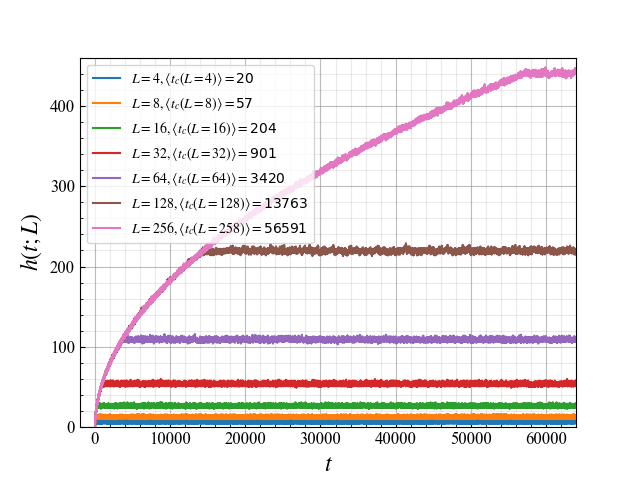
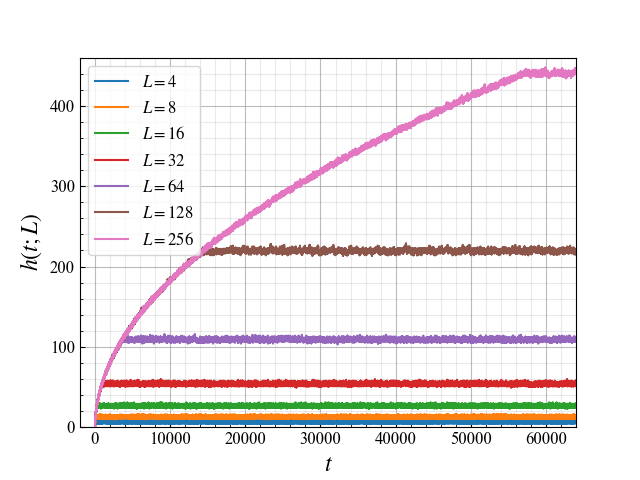
Main work on 2e and 2f, upgraded all previous plots

Changed region(s): [[0.125, 0.125, 0.5, 0.5312]]

diff --git a/main.py b/main.py
@@ -54,7 +54,6 @@ def drive_and_relax(heights, slopes, thresholds, grains=16, p=0.5):
             avalanches.append(avalanche_size)
         
         if steady_state and steady_state_time == 0:
-            # steady_state_time = g - 1
             steady_state_time = heights_sum
         
         h_1.append(heights[0])
@@ -99,6 +98,28 @@ def task_1(compute=True, plot=False):
         heights, slopes, thresholds, h_1, sst, reccur, avalanches = drive_and_relax(heights, slopes, thresholds, grains=4000, p=0.5)
         np.save(os.path.join('Numpy Files', 'First Site Height: L=32, p=0.5'), np.array([h_1, sst]))  # Save data in a .npy file
 
+        """ Average avalanche size with system size """
+        avalanche_sizes = []
+        heights, slopes, thresholds = initialise(size=4, p=0.5)
+        heights, slopes, thresholds, h_1, sst, reccur, avalanches = drive_and_relax(heights, slopes, thresholds, grains=4000, p=0.5)
+        avalanche_sizes.append(np.average(avalanches))
+        heights, slopes, thresholds = initialise(size=8, p=0.5)
+        heights, slopes, thresholds, h_1, sst, reccur, avalanches = drive_and_relax(heights, slopes, thresholds, grains=8000, p=0.5)
+        avalanche_sizes.append(np.average(avalanches))
+        heights, slopes, thresholds = initialise(size=16, p=0.5)
+        heights, slopes, thresholds, h_1, sst, reccur, avalanches = drive_and_relax(heights, slopes, thresholds, grains=16000, p=0.5)
+        avalanche_sizes.append(np.average(avalanches))
+        heights, slopes, thresholds = initialise(size=32, p=0.5)
+        heights, slopes, thresholds, h_1, sst, reccur, avalanches = drive_and_relax(heights, slopes, thresholds, grains=32000, p=0.5)
+        avalanche_sizes.append(np.average(avalanches))
+        heights, slopes, thresholds = initialise(size=64, p=0.5)
+        heights, slopes, thresholds, h_1, sst, reccur, avalanches = drive_and_relax(heights, slopes, thresholds, grains=64000, p=0.5)
+        avalanche_sizes.append(np.average(avalanches))
+        heights, slopes, thresholds = initialise(size=128, p=0.5)
+        heights, slopes, thresholds, h_1, sst, reccur, avalanches = drive_and_relax(heights, slopes, thresholds, grains=90000, p=0.5)
+        avalanche_sizes.append(np.average(avalanches))
+        np.save(os.path.join('Numpy Files', '1: avg_avalanche_size'), np.array(avalanche_sizes))  # Save data in a .npy file
+
     if plot:
         """ Plotting the heights themselves """
         heights = np.load('Pile Visualised: L=64, p=0.5.npy', allow_pickle=True)
@@ -114,14 +135,16 @@ def task_1(compute=True, plot=False):
         h_1_0_5 = np.load('Changing Probabilities: L=16, p=0.5.npy', allow_pickle=True)
         h_1_1 = np.load('Changing Probabilities: L=16, p=1.npy', allow_pickle=True)
         fig, ax = plt.subplots()
+        params = {'legend.fontsize': 12}
+        plt.rcParams.update(params)
         matplotlib.rcParams['mathtext.fontset'] = 'custom'
         matplotlib.rcParams['mathtext.rm'] = 'Bitstream Vera Sans'
         matplotlib.rcParams['mathtext.it'] = 'Bitstream Vera Sans:italic'
         matplotlib.rcParams['mathtext.bf'] = 'Bitstream Vera Sans:bold'
         matplotlib.rcParams['mathtext.fontset'] = 'stix'
-        plt.plot(h_1_0, label=r'$p=0, \langle{steady-state}\rangle=$' + str(np.average(h_1_0[300:])))
-        plt.plot(h_1_0_5, label=r'$p=0.5, \langle{steady-state}\rangle=$' + str(round(np.average(h_1_0_5[300:]), 5)))
-        plt.plot(h_1_1, label=r'$p=1, \langle{steady-state}\rangle=$' + str(np.average(h_1_1[300:])))
+        plt.plot(h_1_0, label=r'$p=0, \langle{steady-state}\rangle=$' + r'${}$'.format(str(np.average(h_1_0[300:]))))
+        plt.plot(h_1_0_5, label=r'$p=0.5, \langle{steady-state}\rangle=$' + r'${}$'.format(str(round(np.average(h_1_0_5[300:]), 5))))
+        plt.plot(h_1_1, label=r'$p=1, \langle{steady-state}\rangle=$' + r'${}$'.format(str(np.average(h_1_1[300:]))))
         plt.xlabel('$\it{t}$', fontname='Times New Roman', fontsize=17)
         plt.ylabel(r'$\it{h(t; L)}$', fontname='Times New Roman', fontsize=17)
         plt.legend()
@@ -142,13 +165,15 @@ def task_1(compute=True, plot=False):
         slopes = np.load('Slopes Bounded: L=32, p=0.5 Slopes.npy', allow_pickle=True)
         thresholds = np.load('Slopes Bounded: L=32, p=0.5 Thresholds.npy', allow_pickle=True)
         fig, ax = plt.subplots()
+        params = {'legend.fontsize': 12}
+        plt.rcParams.update(params)
         matplotlib.rcParams['mathtext.fontset'] = 'custom'
         matplotlib.rcParams['mathtext.rm'] = 'Bitstream Vera Sans'
         matplotlib.rcParams['mathtext.it'] = 'Bitstream Vera Sans:italic'
         matplotlib.rcParams['mathtext.bf'] = 'Bitstream Vera Sans:bold'
         matplotlib.rcParams['mathtext.fontset'] = 'stix'
-        plt.plot(sites, slopes, 'o', label=r'$Actual Slopes$')
-        plt.plot(sites, thresholds, 'x', label=r'$Threshold Slopes$')
+        plt.plot(sites, slopes, 'o', label=r'$Actual\: Slopes$')
+        plt.plot(sites, thresholds, 'x', label=r'$Threshold\: Slopes$')
         plt.xlabel('$\it{i}$', fontname='Times New Roman', fontsize=17)
         plt.ylabel('$\it{z_i}$', fontname='Times New Roman', fontsize=20)
         plt.xlim([0, 33])
@@ -164,17 +189,19 @@ def task_1(compute=True, plot=False):
         plt.savefig('Plots/Task1/slopes_bounded.png')
         plt.show()
 
-        """ Checking the height at the first site fir L = 16, 32 """
+        """ Checking the height at the first site for L = 16, 32 """
         h_1_16, sst_16 = np.load('First Site Height: L=16, p=0.5.npy', allow_pickle=True)
         h_1_32, sst_32 = np.load('First Site Height: L=32, p=0.5.npy', allow_pickle=True)
         fig, ax = plt.subplots()
+        params = {'legend.fontsize': 12}
+        plt.rcParams.update(params)
         matplotlib.rcParams['mathtext.fontset'] = 'custom'
         matplotlib.rcParams['mathtext.rm'] = 'Bitstream Vera Sans'
         matplotlib.rcParams['mathtext.it'] = 'Bitstream Vera Sans:italic'
         matplotlib.rcParams['mathtext.bf'] = 'Bitstream Vera Sans:bold'
         matplotlib.rcParams['mathtext.fontset'] = 'stix'
-        plt.plot(h_1_16, label=r'$L=16, \langle{steady-state}\rangle = $' + str(round(np.average(h_1_16[sst_16:]), 5)))
-        plt.plot(h_1_32, label=r'$L=32, \langle{steady-state}\rangle = $' + str(round(np.average(h_1_32[sst_32:]), 5)))
+        plt.plot(h_1_16, label=r'$L=16, \langle{steady-state}\rangle = $' + r'${}$'.format(str(round(np.average(h_1_16[sst_16:]), 5))))
+        plt.plot(h_1_32, label=r'$L=32, \langle{steady-state}\rangle = $' + r'${}$'.format(str(round(np.average(h_1_32[sst_32:]), 5))))
         plt.xlabel('$\it{t}$', fontname='Times New Roman', fontsize=17)
         plt.ylabel(r'$\it{h(t; L)}$', fontname='Times New Roman', fontsize=17)
         plt.legend()
@@ -188,6 +215,39 @@ def task_1(compute=True, plot=False):
         plt.ylim(0, 62)
         plt.xlim(-200, 4100)
         plt.savefig('Plots/Task1/heights_at_site_1.png')
+        plt.show()
+
+        """ Average avalanche size with system size """
+        avalanche_avg = np.load('1: avg_avalanche_size.npy', allow_pickle=True)
+        l = [4, 8, 16, 32, 64, 128]
+        fig, ax = plt.subplots()
+        params = {'legend.fontsize': 12}
+        plt.rcParams.update(params)
+        matplotlib.rcParams['mathtext.fontset'] = 'custom'
+        matplotlib.rcParams['mathtext.rm'] = 'Bitstream Vera Sans'
+        matplotlib.rcParams['mathtext.it'] = 'Bitstream Vera Sans:italic'
+        matplotlib.rcParams['mathtext.bf'] = 'Bitstream Vera Sans:bold'
+        matplotlib.rcParams['mathtext.fontset'] = 'stix'
+        log_l = np.log(l)
+        log_avalanches_avg = np.log(avalanche_avg)
+        fit_phase, cov_phase = np.polyfit(log_l, log_avalanches_avg, 1, cov=True)
+        p_phase = np.poly1d(fit_phase)
+        l_fit = np.linspace(min(log_l), max(log_l), 1000)
+        plt.plot(log_l, log_avalanches_avg, 'o', label=r'$\langle{s}\rangle$' + ' ' + r'$obtained$')
+        plt.plot(l_fit, p_phase(l_fit), label=r'$fit: $' + r'$gradient=$' + ' ' + r'${}$'.format(str(round(fit_phase[0], 3))))
+        plt.xlabel('$\it{log({L})}$', fontname='Times New Roman', fontsize=17)
+        plt.ylabel(r'$\it{log({\langle{s}\rangle})}$', fontname='Times New Roman', fontsize=17)
+        plt.legend()
+        plt.minorticks_on()
+        ax.tick_params(direction='in')
+        ax.tick_params(which='minor', direction='in')
+        plt.grid(b=True, which='major', color='#8e8e8e', linestyle='-', alpha=0.6)
+        plt.grid(b=True, which='minor', color='#999999', linestyle='-', alpha=0.2)
+        plt.xticks(fontsize=12, fontname='Times New Roman')
+        plt.yticks(fontsize=12, fontname='Times New Roman')
+        plt.ylim(1, 5)
+        plt.xlim(1, 5)
+        plt.savefig('Plots/Task1/avg_avalanche_scaling.png')
         plt.show()
 
 
@@ -230,18 +290,20 @@ def task_2_a(compute=True, plot=False):
         h_1_128, sst_128 = np.load('Task 2a: L=128, p=0.5.npy', allow_pickle=True)
         h_1_256, sst_256 = np.load('Task 2a: L=256, p=0.5.npy', allow_pickle=True)
         fig, ax = plt.subplots()
+        params = {'legend.fontsize': 12}
+        plt.rcParams.update(params)
         matplotlib.rcParams['mathtext.fontset'] = 'custom'
         matplotlib.rcParams['mathtext.rm'] = 'Bitstream Vera Sans'
         matplotlib.rcParams['mathtext.it'] = 'Bitstream Vera Sans:italic'
         matplotlib.rcParams['mathtext.bf'] = 'Bitstream Vera Sans:bold'
         matplotlib.rcParams['mathtext.fontset'] = 'stix'
-        plt.plot(h_1_4, label=r'$L=4, \langle{t_c(L=4)}\rangle  = $' + str(sst_4))
-        plt.plot(h_1_8, label=r'$L=8, \langle{t_c(L=8)}\rangle  = $' + str(sst_8))
-        plt.plot(h_1_16, label=r'$L=16, \langle{t_c(L=16)}\rangle  = $' + str(sst_16))
-        plt.plot(h_1_32, label=r'$L=32, \langle{t_c(L=32)}\rangle  = $' + str(sst_32))
-        plt.plot(h_1_64, label=r'$L=64, \langle{t_c(L=64)}\rangle  = $' + str(sst_64))
-        plt.plot(h_1_128, label=r'$L=128, \langle{t_c(L=128)}\rangle  = $' + str(sst_128))
-        plt.plot(h_1_256, label=r'$L=256, \langle{t_c(L=258)}\rangle  = $' + str(sst_256))
+        plt.plot(h_1_4, label=r'$L=4$')
+        plt.plot(h_1_8, label=r'$L=8$')
+        plt.plot(h_1_16, label=r'$L=16$')
+        plt.plot(h_1_32, label=r'$L=32$')
+        plt.plot(h_1_64, label=r'$L=64$')
+        plt.plot(h_1_128, label=r'$L=128$')
+        plt.plot(h_1_256, label=r'$L=256$')
         plt.xlabel('$\it{t}$', fontname='Times New Roman', fontsize=17)
         plt.ylabel(r'$\it{h(t; L)}$', fontname='Times New Roman', fontsize=17)
         plt.legend()
@@ -338,6 +400,36 @@ def task_2_b(compute=True, plot=False):
         plt.savefig('Plots/Task2/task2b.png')
         plt.show()
 
+        l_log = np.log(l)
+        avg_cross_over_times_log = np.log(avg_cross_over_times)
+        fig, ax = plt.subplots()
+        params = {'legend.fontsize': 12}
+        plt.rcParams.update(params)
+        matplotlib.rcParams['mathtext.fontset'] = 'custom'
+        matplotlib.rcParams['mathtext.rm'] = 'Bitstream Vera Sans'
+        matplotlib.rcParams['mathtext.it'] = 'Bitstream Vera Sans:italic'
+        matplotlib.rcParams['mathtext.bf'] = 'Bitstream Vera Sans:bold'
+        matplotlib.rcParams['mathtext.fontset'] = 'stix'
+        fit_phase, cov_phase = np.polyfit(l_log, avg_cross_over_times_log, 1, cov=True)
+        p_phase = np.poly1d(fit_phase)
+        l_fit = np.linspace(min(l_log), max(l_log), 1000)
+        plt.plot(l_log, avg_cross_over_times_log, 'o', label=r'$\langle{t_c}\rangle$')
+        plt.plot(l_fit, p_phase(l_fit), label=r'$fit: $' + r'$gradient=$' + ' ' + r'${}$'.format(str(round(fit_phase[0], 2))))
+        plt.xlabel(r'$\it{log({L})}$', fontname='Times New Roman', fontsize=17)
+        plt.ylabel(r'$log({\langle{t_c}\rangle})$', fontname='Times New Roman', fontsize=18)
+        plt.legend()
+        plt.minorticks_on()
+        ax.tick_params(direction='in')
+        ax.tick_params(which='minor', direction='in')
+        plt.grid(b=True, which='major', color='#8e8e8e', linestyle='-', alpha=0.6)
+        plt.grid(b=True, which='minor', color='#999999', linestyle='-', alpha=0.2)
+        plt.xticks(fontsize=12, fontname='Times New Roman')
+        plt.yticks(fontsize=12, fontname='Times New Roman')
+        plt.xlim(1, 6)
+        plt.ylim(2, 12)
+        plt.savefig('Plots/Task2/task2b_log_plot.png')
+        plt.show()
+
 
 def task_2_d(compute=True, plot=False):
     if compute:
@@ -423,7 +515,10 @@ def task_2_d(compute=True, plot=False):
         h_1_256 /= 256
         t_s = np.linspace(0, 0.88, 881)
         x_sq = 1.75*np.sqrt(t_s)
+        x_sq_cor = 1.75*np.sqrt(t_s) + 0.095*t_s
         fig, ax = plt.subplots()
+        params = {'legend.fontsize': 12}
+        plt.rcParams.update(params)
         matplotlib.rcParams['mathtext.fontset'] = 'custom'
         matplotlib.rcParams['mathtext.rm'] = 'Bitstream Vera Sans'
         matplotlib.rcParams['mathtext.it'] = 'Bitstream Vera Sans:italic'
@@ -437,8 +532,9 @@ def task_2_d(compute=True, plot=False):
         plt.plot(t_128, h_1_128, label=r'$L=128$')
         plt.plot(t_256, h_1_256, label=r'$L=256$')
         plt.plot(t_s, x_sq, '--', label=r'$y= 1.72\sqrt{t}$', alpha=0.9, linewidth=2, color='k')
-        plt.xlabel('$\it{t}$', fontname='Times New Roman', fontsize=17)
-        plt.ylabel(r'$\it{\tilde h(t; L)}$', fontname='Times New Roman', fontsize=17)
+        plt.plot(t_s, x_sq_cor, '--', label=r'$y_c= 1.72\sqrt{t}\: + 0.095t$', alpha=0.9, linewidth=2, color='k')
+        plt.xlabel('$\it{t}$' + ' ' + r'$/L^{2}$', fontname='Times New Roman', fontsize=17)
+        plt.ylabel(r'$\it{\tilde h(t; L)}$' + ' / ' + r'$L$', fontname='Times New Roman', fontsize=17)
         plt.legend()
         plt.minorticks_on()
         ax.tick_params(direction='in')
@@ -447,7 +543,7 @@ def task_2_d(compute=True, plot=False):
         plt.grid(b=True, which='minor', color='#999999', linestyle='-', alpha=0.2)
         plt.xticks(fontsize=12, fontname='Times New Roman')
         plt.yticks(fontsize=12, fontname='Times New Roman')
-        plt.xlim(-0.1, 1.25)
+        plt.xlim(-0.05, 1.25)
         plt.ylim(0, 2)
         plt.savefig('Plots/Task2/task2d.png')
         plt.show()
@@ -462,37 +558,35 @@ def task_2_e():
     h_1_128, sst_128 = np.load('Task 2a: L=128, p=0.5.npy', allow_pickle=True)
     h_1_256, sst_256 = np.load('Task 2a: L=256, p=0.5.npy', allow_pickle=True)
 
-    h_4_avg = np.average(h_1_4[sst_4:])
-    h_8_avg = np.average(h_1_8[sst_8:])
-    h_16_avg = np.average(h_1_16[sst_16:])
-    h_32_avg = np.average(h_1_32[sst_32:])
-    h_64_avg = np.average(h_1_64[sst_64:])
-    h_128_avg = np.average(h_1_128[sst_128:])
+    h_4_avg = np.average(h_1_4[sst_4:][::4])
+    h_8_avg = np.average(h_1_8[sst_8:][::8])
+    h_16_avg = np.average(h_1_16[sst_16:][::16])
+    h_32_avg = np.average(h_1_32[sst_32:][::32])
+    h_64_avg = np.average(h_1_64[sst_64:][::64])
+    h_128_avg = np.average(h_1_128[sst_128:][::128])
     h_256_avg = np.average(h_1_256[sst_256:])
-    h_4_std = np.std(h_1_4[sst_4:])
-    h_8_std = np.std(h_1_8[sst_8:])
-    h_16_std = np.std(h_1_16[sst_16:])
-    h_32_std = np.std(h_1_32[sst_32:])
-    h_64_std = np.std(h_1_64[sst_64:])
-    h_128_std = np.std(h_1_128[sst_128:])
-    h_256_std = np.std(h_1_256[sst_256:])
+    h_avg = [h_4_avg, h_8_avg, h_16_avg, h_32_avg, h_64_avg]  # , h_128_avg, h_256_avg
 
-    sites = [4, 8, 16, 32, 64, 128, 256]
+    sites = [4, 8, 16, 32, 64]  #, 128, 256
+    a_0 = h_128_avg / 128
+    y = [l - h/a_0 for l, h in zip(sites, h_avg)]
+    sites_log = np.log(sites)
+    y_log = np.log(y)
     fig, ax = plt.subplots()
+    params = {'legend.fontsize': 12}
+    plt.rcParams.update(params)
     matplotlib.rcParams['mathtext.fontset'] = 'custom'
     matplotlib.rcParams['mathtext.rm'] = 'Bitstream Vera Sans'
     matplotlib.rcParams['mathtext.it'] = 'Bitstream Vera Sans:italic'
     matplotlib.rcParams['mathtext.bf'] = 'Bitstream Vera Sans:bold'
     matplotlib.rcParams['mathtext.fontset'] = 'stix'
-    plt.plot(sites[0], h_4_avg, 'o', label=r'$L=4,$' + ' ' + r'$std=$' + str(round(h_4_std, 4)))
-    plt.plot(sites[1], h_8_avg, 'o', label=r'$L=8,$' + ' ' +  r'$std=$' + str(round(h_8_std, 4)))
-    plt.plot(sites[2], h_16_avg, 'o', label=r'$L=16,$' + ' ' +  r'$std=$' + str(round(h_16_std, 4)))
-    plt.plot(sites[3], h_32_avg, 'o', label=r'$L=32,$' + ' ' +  r'$std=$' + str(round(h_32_std, 4)))
-    plt.plot(sites[4], h_64_avg, 'o', label=r'$L=64,$' + ' ' +  r'$std=$' + str(round(h_64_std, 4)))
-    plt.plot(sites[5], h_128_avg, 'o', label=r'$L=128,$' + ' ' +  r'$std=$' + str(round(h_128_std, 4)))
-    plt.plot(sites[6], h_256_avg, 'o', label=r'$L=256,$' + ' ' +  r'$std=$' + str(round(h_256_std, 4)))
-    plt.xlabel('$\it{L}$', fontname='Times New Roman', fontsize=17)
-    plt.ylabel(r'$\it{\langle{steady-state}\rangle}$', fontname='Times New Roman', fontsize=17)
+    fit_phase, cov_phase = np.polyfit(sites_log, y_log, 1, cov=True)
+    p_phase = np.poly1d(fit_phase)
+    l_fit = np.linspace(min(sites_log), max(sites_log), 1000)
+    plt.plot(sites_log, y_log, 'o')
+    plt.plot(l_fit, p_phase(l_fit), label=r'$fit: $' + r'$\omega_1=$' + ' ' + r'${}$'.format(str(round(1 - fit_phase[0], 5))))
+    plt.xlabel(r'$\it{log({L})}$', fontname='Times New Roman', fontsize=17)
+    plt.ylabel(r'$log({L-\langle{h(t; L)}\rangle_t\: /\: a_0})$', fontname='Times New Roman', fontsize=18)
     plt.legend()
     plt.minorticks_on()
     ax.tick_params(direction='in')
@@ -501,10 +595,58 @@ def task_2_e():
     plt.grid(b=True, which='minor', color='#999999', linestyle='-', alpha=0.2)
     plt.xticks(fontsize=12, fontname='Times New Roman')
     plt.yticks(fontsize=12, fontname='Times New Roman')
-    plt.xlim(0, 270)
-    plt.ylim(0, 460)
+    plt.xlim(1, 5)
+    plt.ylim(-1.2, -0.4)
     plt.savefig('Plots/Task2/task2e.png')
     plt.show()
+
+
+def task_2_f():
+    h_1_4, sst_4 = np.load('Task 2a: L=4, p=0.5.npy', allow_pickle=True)
+    h_1_8, sst_8 = np.load('Task 2a: L=8, p=0.5.npy', allow_pickle=True)
+    h_1_16, sst_16 = np.load('Task 2a: L=16, p=0.5.npy', allow_pickle=True)
+    h_1_32, sst_32 = np.load('Task 2a: L=32, p=0.5.npy', allow_pickle=True)
+    h_1_64, sst_64 = np.load('Task 2a: L=64, p=0.5.npy', allow_pickle=True)
+    h_1_128, sst_128 = np.load('Task 2a: L=128, p=0.5.npy', allow_pickle=True)
+
+    h_4_std = np.std(h_1_4[sst_4:][::4])
+    h_8_std = np.std(h_1_8[sst_8:][::8])
+    h_16_std = np.std(h_1_16[sst_16:][::16])
+    h_32_std = np.std(h_1_32[sst_32:][::32])
+    h_64_std = np.std(h_1_64[sst_64:][::64])
+    h_128_std = np.std(h_1_128[sst_128:][::128])
+    h_std = [h_4_std, h_8_std, h_16_std, h_32_std, h_64_std, h_128_std]
+    sites = [4, 8, 16, 32, 64, 128]  #, 128, 256
+    sites_log = np.log(sites)
+    std_log = np.log(h_std)
+    fig, ax = plt.subplots()
+    params = {'legend.fontsize': 12}
+    plt.rcParams.update(params)
+    matplotlib.rcParams['mathtext.fontset'] = 'custom'
+    matplotlib.rcParams['mathtext.rm'] = 'Bitstream Vera Sans'
+    matplotlib.rcParams['mathtext.it'] = 'Bitstream Vera Sans:italic'
+    matplotlib.rcParams['mathtext.bf'] = 'Bitstream Vera Sans:bold'
+    matplotlib.rcParams['mathtext.fontset'] = 'stix'
+    fit_phase, cov_phase = np.polyfit(sites_log, std_log, 1, cov=True)
+    p_phase = np.poly1d(fit_phase)
+    l_fit = np.linspace(min(sites_log), max(sites_log), 1000)
+    plt.plot(sites_log, std_log, 'o')
+    plt.plot(l_fit, p_phase(l_fit), label=r'$fit: $' + r'$gradient=$' + ' ' + r'${}$'.format(str(round(fit_phase[0], 5))))
+    plt.xlabel(r'$\it{log({L})}$', fontname='Times New Roman', fontsize=17)
+    plt.ylabel(r'$log({\sigma_h(L)})$', fontname='Times New Roman', fontsize=18)
+    plt.legend()
+    plt.minorticks_on()
+    ax.tick_params(direction='in')
+    ax.tick_params(which='minor', direction='in')
+    plt.grid(b=True, which='major', color='#8e8e8e', linestyle='-', alpha=0.6)
+    plt.grid(b=True, which='minor', color='#999999', linestyle='-', alpha=0.2)
+    plt.xticks(fontsize=12, fontname='Times New Roman')
+    plt.yticks(fontsize=12, fontname='Times New Roman')
+    plt.xlim(1, 5)
+    plt.ylim(-0.4, 0.8)
+    plt.savefig('Plots/Task2/task2f.png')
+    plt.show()
+
 
 
 if __name__ == '__main__':
@@ -513,4 +655,5 @@ if __name__ == '__main__':
     # task_2_a(compute=False, plot=True)
     # task_2_b(compute=False, plot=True)
     # task_2_d(compute=False, plot=True)
-    task_2_e()
+    # task_2_e()
+    task_2_f()
